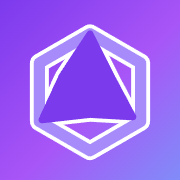
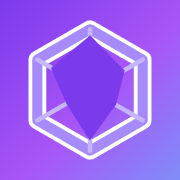
ファビコンを本物のレーダーチャートに見える形に変更（?v=3）
六角形の枠・放射軸・不規則な六角形の塗りにして、三角形に見える問題を解消。キャッシュ対策で ?v=2 を ?v=3 に更新し、テストと CI の確認も追従。

Changed region(s): [[0.1389, 0.1111, 0.8611, 0.8889]]

diff --git a/src/FaraPokemonBattleAssistant.Web/wwwroot/index.html b/src/FaraPokemonBattleAssistant.Web/wwwroot/index.html
@@ -16,11 +16,11 @@
     <!-- ファビコン（六角形のレーダー。外側の枠は明るい紫、内側の多角形は濃い紫、どちらも白い縁取り）。SEO-HEAD の区切りの外に置く（build-entry-pages が区切りの中だけを書き換えるので、全ページに残る）。
          /favicon.ico は必ず置く（not_found_handling が 404 ページなので、無いと 404）。SVG は prefers-color-scheme の切り替えなし（Safari 非対応のため PNG・ICO と見た目をそろえる）。
          ファイル名は固定。Workers の静的アセットは再検証（must-revalidate）で配られるが、ブラウザーのファビコンは強く覚えられるので、図案を変えたら ?v= を上げる -->
-    <link rel="icon" href="/favicon.ico?v=2" sizes="16x16 32x32 48x48" />
-    <link rel="icon" href="/favicon.svg?v=2" type="image/svg+xml" />
-    <link rel="icon" href="/favicon-32x32.png?v=2" type="image/png" sizes="32x32" />
-    <link rel="icon" href="/favicon-16x16.png?v=2" type="image/png" sizes="16x16" />
-    <link rel="apple-touch-icon" href="/apple-touch-icon.png?v=2" />
+    <link rel="icon" href="/favicon.ico?v=3" sizes="16x16 32x32 48x48" />
+    <link rel="icon" href="/favicon.svg?v=3" type="image/svg+xml" />
+    <link rel="icon" href="/favicon-32x32.png?v=3" type="image/png" sizes="32x32" />
+    <link rel="icon" href="/favicon-16x16.png?v=3" type="image/png" sizes="16x16" />
+    <link rel="apple-touch-icon" href="/apple-touch-icon.png?v=3" />
     <base href="/" />
     <!-- 起動までの読み込み表示（画面全体を覆う不透明なオーバーレイ）。最初に当てる（CSS の読み込み前にも本文が見えないように、インラインで書く）。
          背景色は theme-init.js（kit）が決める data-bs-theme に従う（app.css の --app-body-bg と同じ色）。 -->
